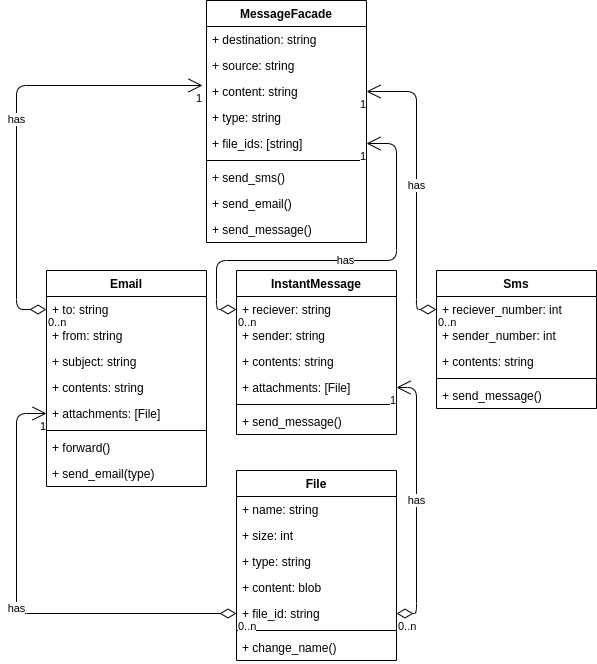
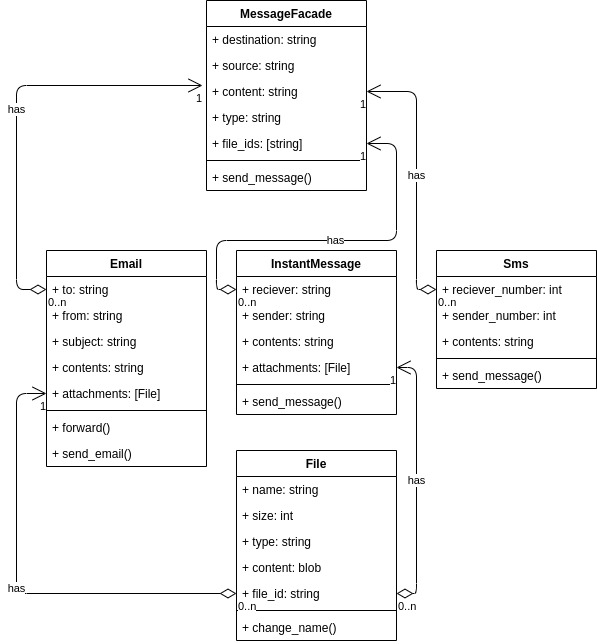
facade example

diff --git a/design-patterns/facade/main.py b/design-patterns/facade/main.py
@@ -1,0 +1,111 @@
+# facade example
+
+class File:
+    def __init__(self, name, size=1000, content='Test....', file_id=0):
+        self.name = name
+        self.size = size
+        self.content = content
+        self.file_id = file_id
+
+    def change_name(self, name:str):
+        self.name = name
+
+class Sms:
+    def __init__(self, reciever_number:int, sender_number:int, contents:str):
+        self.reciever_number = reciever_number
+        self.sender_number = sender_number
+        self.contents = contents
+
+    def send_message(self):
+        print('Sending sms...')
+        print(f'To: {self.reciever_number}\nFrom: {self.sender_number}\nContents:{self.contents}')
+        print()
+
+class Email:
+    def __init__(self, to, _from, subject, contents, attachments:[]):
+        self.to = to
+        self._from = _from
+        self.subject = subject
+        self.contents = contents
+        self.attachments = attachments
+
+    def forward(self, to):
+        print(f'Forwarding message to {to}')
+
+    def send_email(self):
+        print('Sending email...')
+        print(f'To: {self.to}')
+        print(f'from: {self._from}')
+        print(f'subject: {self.subject}')
+        print(f'contents: {self.contents}')
+        print(f'attachments: {self.attachments}')
+        print()
+
+class InstantMessage:
+    def __init__(self, reciever, sender, contents, attachments:[]):
+        self.reciever = reciever
+        self.sender =sender
+        self.contents = contents
+        self.attachments = attachments
+
+    def send_message(self):
+        print('Sending instant message...')
+        print(f'to: {self.reciever}')
+        print(f'sender: {self.sender}')
+        print(f'contents: {self.contents}')
+        print(f'attachments: ({len(self.attachments)}): {self.attachments}')
+        print()
+
+class MessageFacade:
+    def __init__(self, destination, source, content, type:str, file_ids=[], emailSubject=''):
+        self.destination = destination
+        self.source = source
+        self.content = content
+        self.type = type
+        self.file_ids = file_ids
+        self.emailSubject = emailSubject
+
+        self.email = None
+        self.instantMessage = None
+        self.sms = None
+
+        files = []
+        if len(file_ids) > 0:
+            for file_id in file_ids:
+                files.append(File(name='File#' + str(file_id), file_id=file_id))
+        # defining behavior from type
+        if type == 'email':
+            self.email = Email(to=self.destination, _from=self.source, subject=self.emailSubject,
+                               contents=self.content, attachments=files)
+        elif type == 'instant_message':
+            self.instantMessage = InstantMessage(reciever=self.destination, sender=self.source,
+                                                 contents=self.content, attachments=files)
+        elif type == 'sms':
+            self.sms = Sms(reciever_number=self.destination, sender_number=self.source,
+                           contents=self.content)
+        else:
+            print('Not implemented.')
+
+    def send_message(self):
+        if self.type == 'email':
+            self.email.send_email()
+        elif self.type == 'instant_message':
+            self.instantMessage.send_message()
+        elif self.type == 'sms':
+            self.sms.send_message()
+
+#### main program #####
+if __name__ == '__main__':
+    m1 = MessageFacade(destination='7110111', source='7098851',
+                       content='This is a test sms', type='sms')
+    m1.send_message()
+
+    m2 = MessageFacade(destination='@hyemma', source='@nyco',
+                       content='Hello friend, you recieve it?',
+                       type='instant_message')
+    m2.send_message()
+
+    m3 = MessageFacade(destination='dom@example.org', source='luen@example.com',
+                       content='Task facade done...', type='email',
+                       file_ids=[100, 101], emailSubject='Test email.')
+    m3.send_message()
